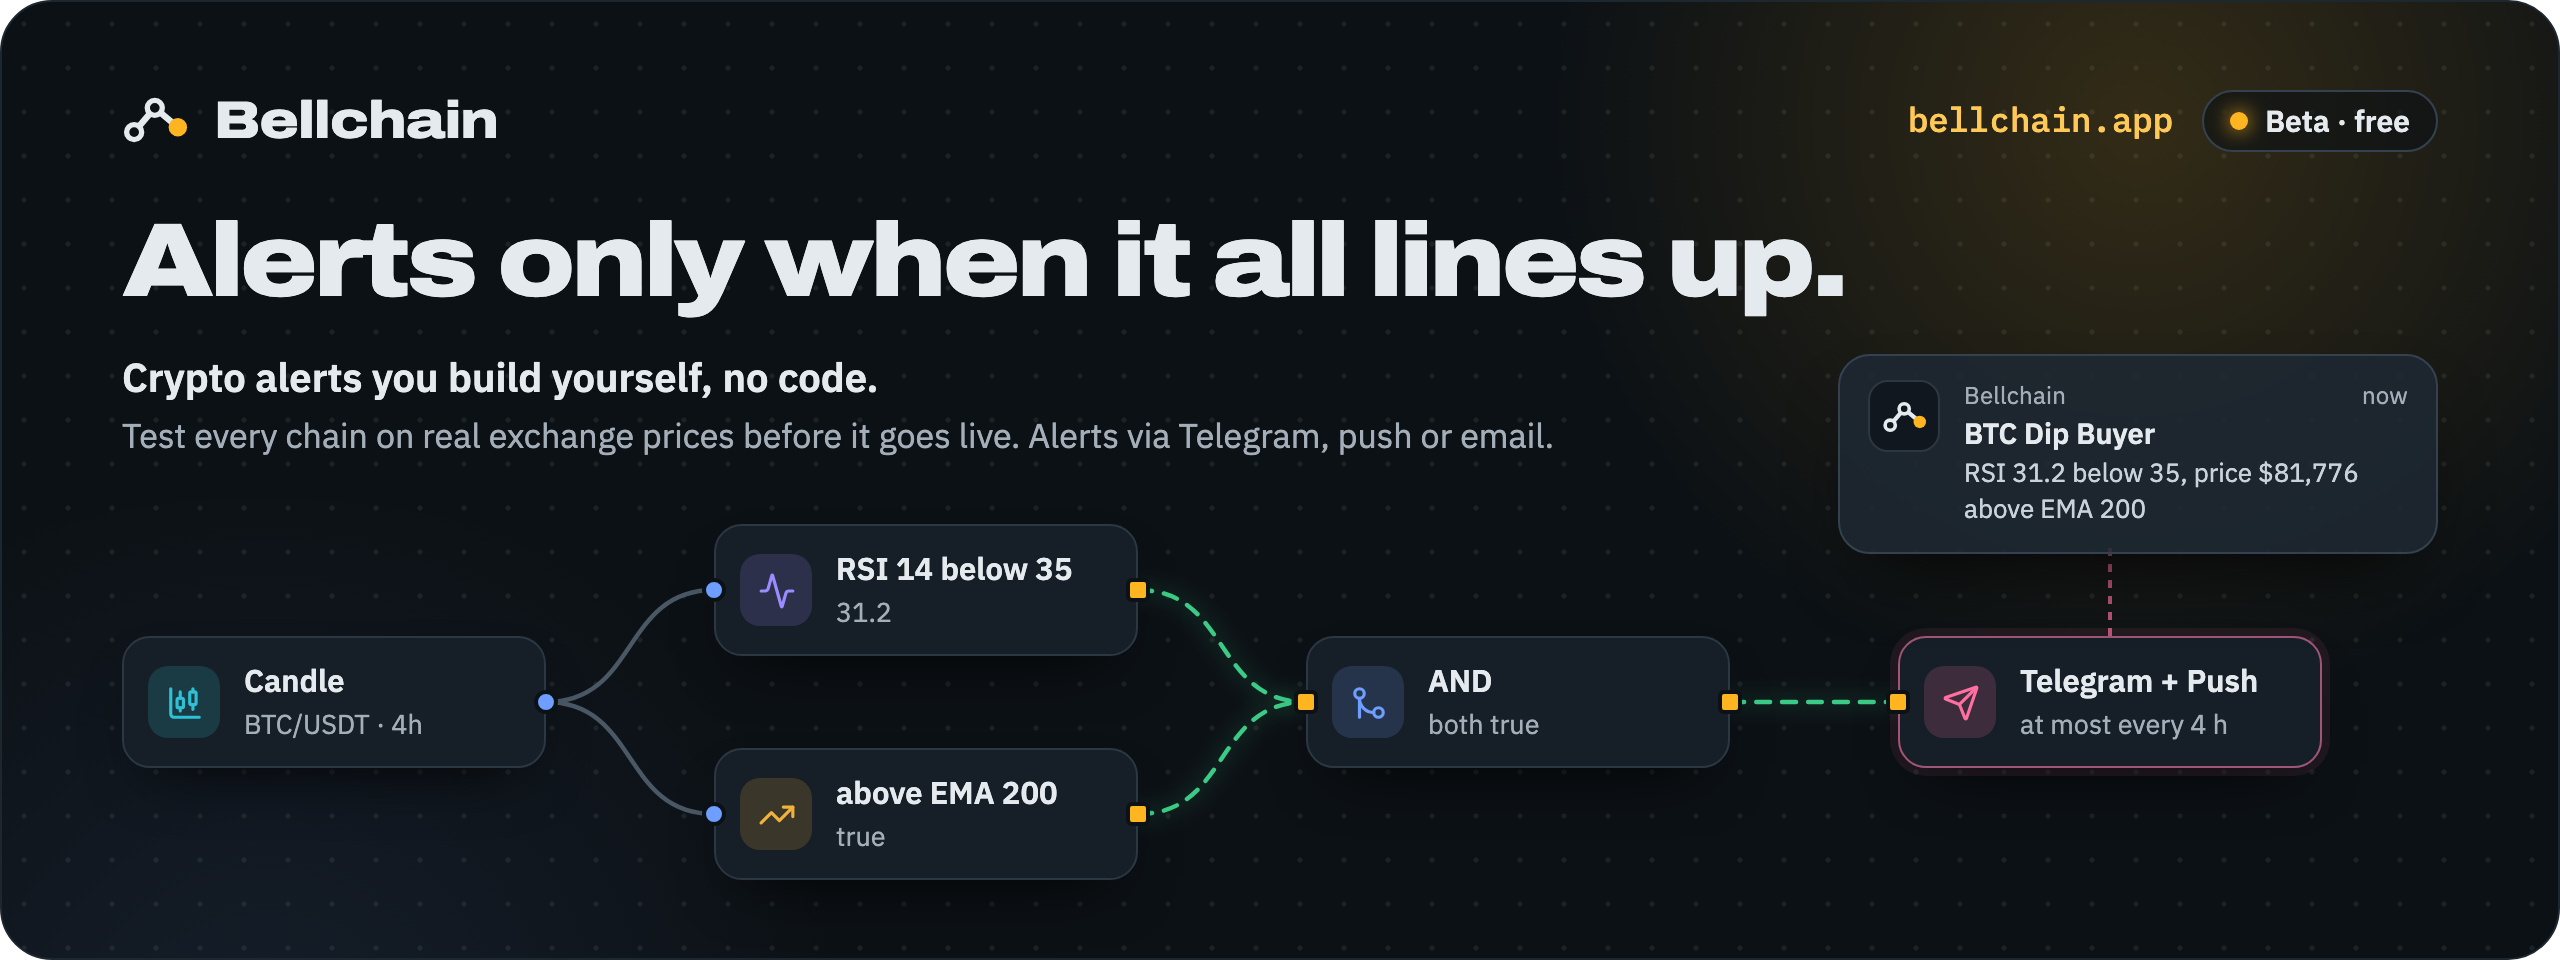
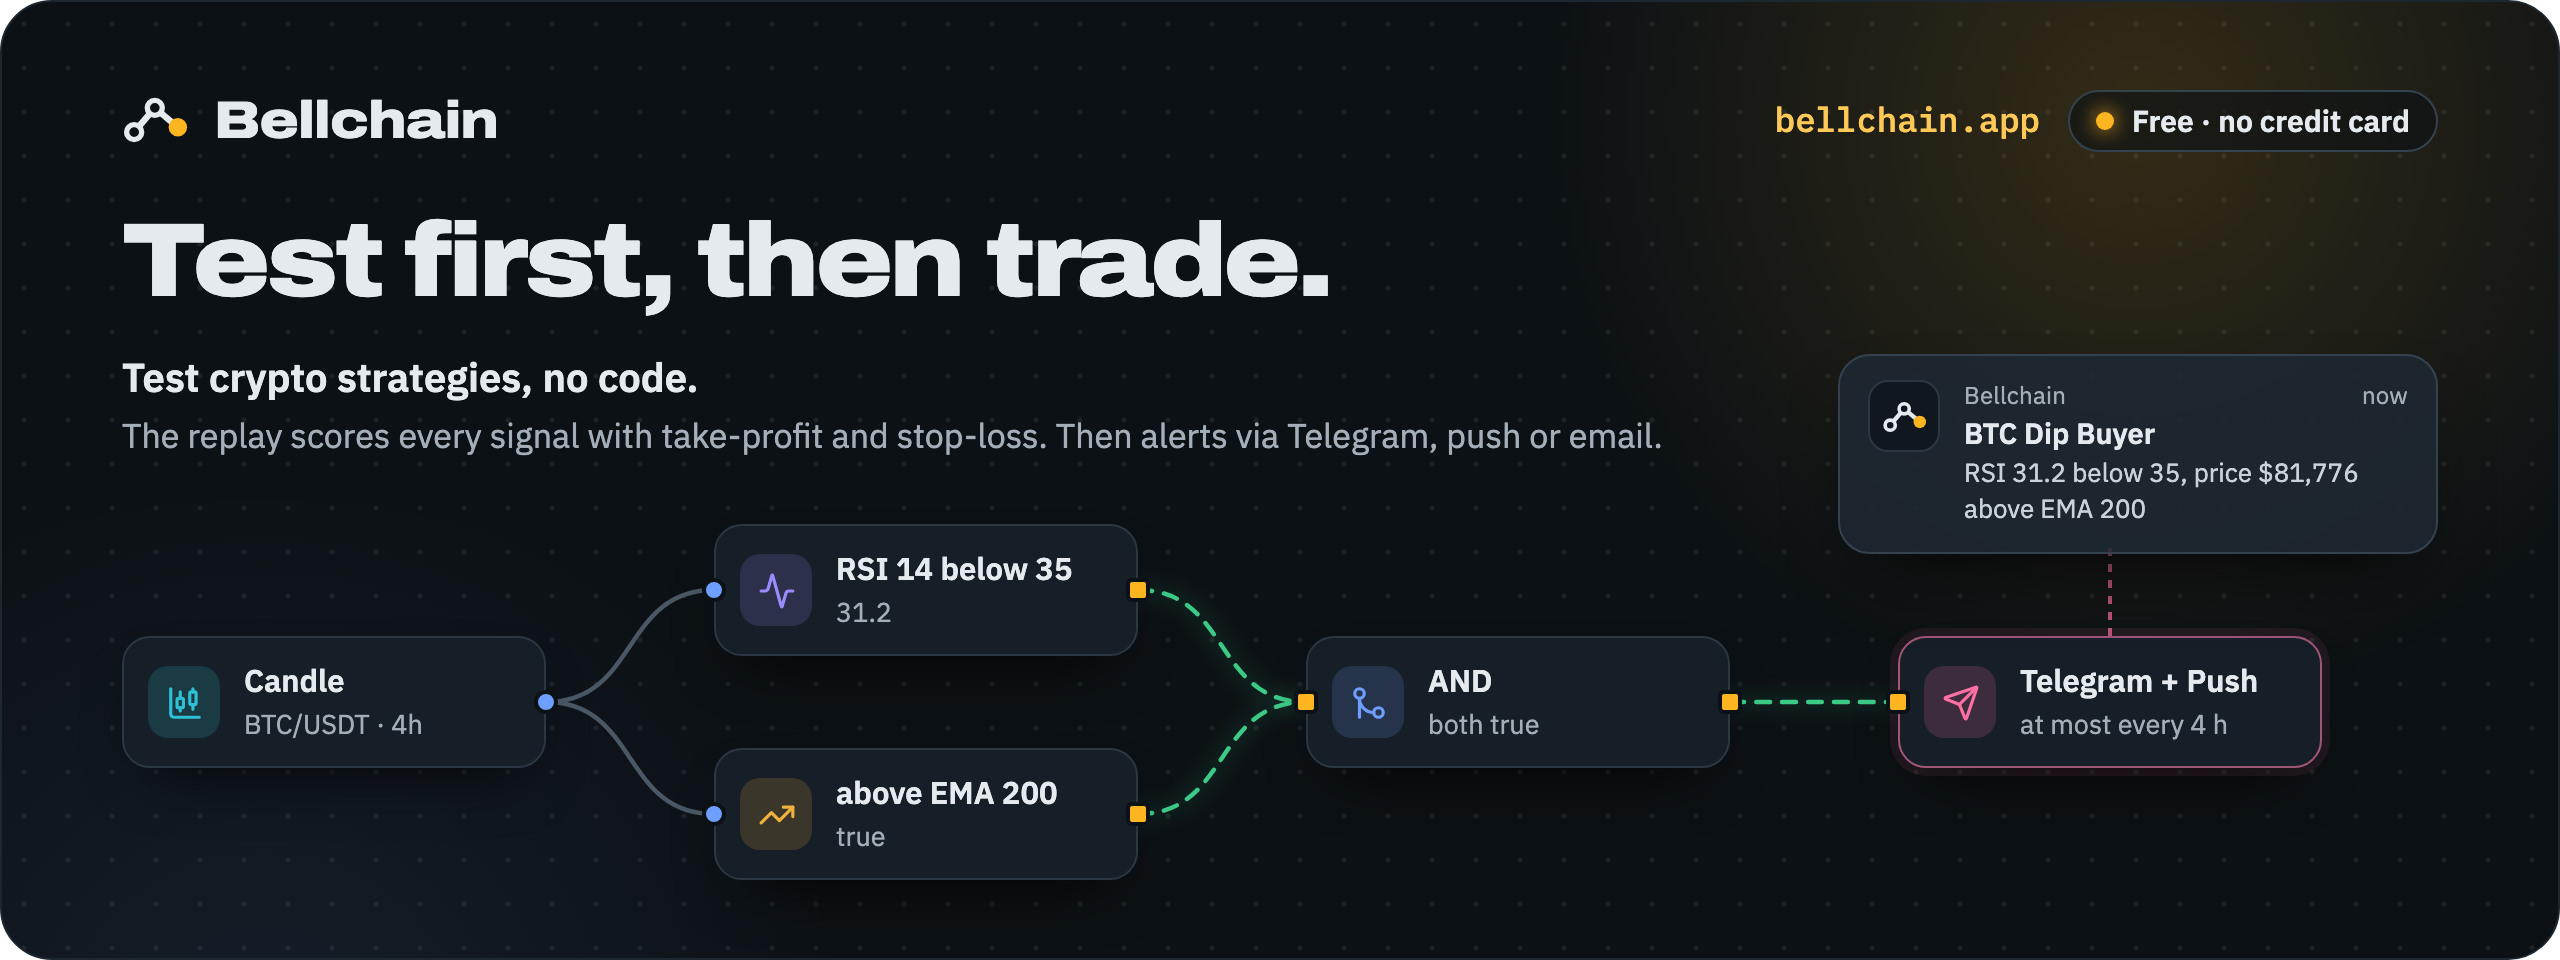
Profile: test first, then trade – strategies scored with take-profit and stop-loss

Changed region(s): [[0.0312, 0.2188, 0.7188, 0.3438], [0.0312, 0.375, 0.6562, 0.4688], [0.6875, 0.0938, 0.9375, 0.1562]]

diff --git a/profile/README.md b/profile/README.md
@@ -1,5 +1,5 @@
 <a href="https://bellchain.app/en/">
-  <img src="https://github.com/bellchain-app/.github/raw/main/profile/banner.png" alt="Bellchain: Alerts only when it all lines up. Crypto alerts you build yourself, no code." width="100%">
+  <img src="https://github.com/bellchain-app/.github/raw/main/profile/banner.png" alt="Bellchain: Test first, then trade. Test crypto strategies, no code." width="100%">
 </a>
 
 <p align="center">
@@ -14,12 +14,12 @@
   <a href="https://x.com/bellchainapp"><b>X</b></a>
 </p>
 
-**Bellchain** lets you build crypto alerts from nodes on a board, without code. Say you want to know when Bitcoin's RSI on the 1-hour chart drops below 30, but only while the price is above the EMA 200, and at most once every four hours. In Bellchain that's one chain: a candle, two indicators, two conditions, an AND and a Telegram node. Before it goes live, the replay shows how often it would have fired on real exchange prices.
+**Bellchain** lets you test crypto trading strategies on real prices and get an alert on every signal, without code. Say your idea is: Bitcoin's RSI on the 1-hour chart drops below 30, but only while the price is above the EMA 200. In Bellchain that's one chain: a candle, two indicators, two conditions, an AND and a Telegram node. The replay runs it on real exchange prices and scores every signal as a trade with a take-profit and a stop-loss, after fees, so you see whether it would have paid off. A look back, not a forecast. If you like the result, activate the chain and Bellchain alerts you on every new signal.
 
 ### How it works
 
 1. **Drag.** Nodes for every step: candle source, indicators such as RSI, EMA, MACD, Supertrend, Stochastic, Bollinger Bands and candlestick patterns, conditions, logic and actions. The library keeps growing. Missing one? Build your own node from inputs and a formula. Or start from one of the templates.
-2. **Connect and test.** Wire outputs to inputs. The replay runs the chain on real exchange prices, over a period that depends on your plan, and lists every alert it would have sent.
+2. **Connect and test.** Wire outputs to inputs. The replay runs the chain on real exchange prices, over a period that depends on your plan, and lists every alert it would have sent, with its outcome at take-profit or stop-loss.
 3. **Activate.** Alerts arrive via Telegram, push or email, and depending on your plan also as a webhook or in Discord. After an alert, each action waits 4 hours by default before the next one.
 
 ### Built in the open
